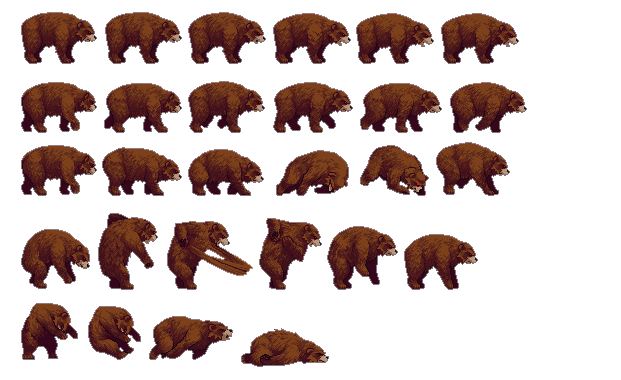
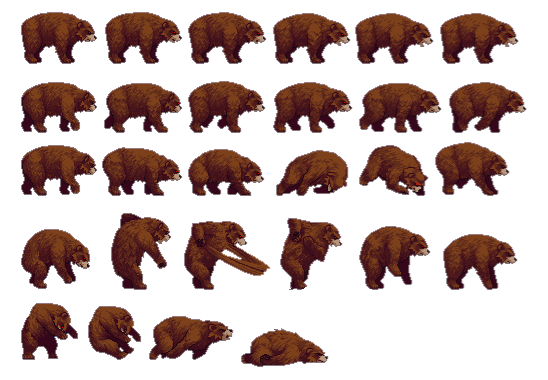
2스테이지 보스 작동. 수정 필요

diff --git a/2DGP_Project/boss2.py b/2DGP_Project/boss2.py
@@ -4,47 +4,150 @@ import random
 import math
 import game_framework
 import game_world
-from tang import Tang
 
-# 곰 행동
+# 상태 상수
 ACTION_IDLE = 0
 ACTION_WALK = 1
-#2은 뭔가 좀 애매
-ACTION_ATTACK = 3  # 3번째 줄이 서서 공격하는 모션
-ACTION_DEAD = 4
+ACTION_ATTACK = 2
+ACTION_DEAD = 3
 
-TIME_PER_ACTION = 1.5
+TIME_PER_ACTION = 1.0
 ACTION_PER_TIME = 1.0 / TIME_PER_ACTION
-FRAMES_PER_ACTION = 6
+
 
 class Boss:
     image = None
-    def __init__(self,x, y):
+
+    def __init__(self, x, y):
         if self.image is None:
             self.image = load_image('Bear.png')
 
         self.x, self.y = x, y
 
-        self.frame_width = 621 // 6
-        self.frame_height = 380 // 5
+        # 화면에 그려질 크기
+        self.draw_width = 150
+        self.draw_height = 150
 
-        self.hp = 100 #총알 1대당 10대미지로 설정 예정
+        self.hp = 100
         self.dir = -1
         self.frame = 0
         self.action = ACTION_IDLE
+
+
+        self.frames = [
+            # 1번째 줄 (서 있는 모습) - IDLE
+            (21, 316, 76, 52), (105, 316, 78, 52), (188, 316, 79, 52), (273, 316, 78, 51),
+            (355, 316, 79, 51), (440, 316, 79, 51),
+
+            # 2번째 줄 (걷기) - WALK
+            (21, 247, 76, 51), (104, 247, 79, 50), (188, 247, 78, 52), (273, 247, 80, 51),
+            (355, 247, 80, 49), (440, 247, 80, 50),
+
+            # 3번째 줄 (포효/공격 준비) - 미사용 예정
+            (20, 179, 77, 51), (103, 179, 79, 50), (187, 179, 79, 50), (273, 179, 73, 47),
+            (353, 179, 76, 50), (436, 179, 78, 50),
+
+            # 4번째 줄 (공격) - ATTACK
+            (20, 103, 71, 55), (103, 103, 68, 67), (181, 103, 95, 60), (288, 103, 63, 64),
+            (361, 103, 70, 57), (443, 103, 73, 50),
+
+            # 5번째 줄 (피격/쓰러짐) - DEAD
+            (20, 25, 60, 54), (91, 25, 56, 52), (160, 25, 85, 42), (266, 25, 90, 32)
+        ]
+
         self.timer = 0
+        self.dead_timer = 0
+
+        # 현재 그려야 할 리스트의 인덱스 번호
+        self.current_draw_index = 0
 
     def update(self):
-        pass
+        # 현재 행동에 따라 사용할 프레임 범위 설정
+        start_index = 0
+        frame_count = 0
+
+        if self.action == ACTION_IDLE:
+            start_index = 0
+            frame_count = 6
+        elif self.action == ACTION_WALK:
+            start_index = 6
+            frame_count = 6
+        elif self.action == ACTION_ATTACK:
+            start_index = 18  # 4번째 줄 사용
+            frame_count = 6
+        elif self.action == ACTION_DEAD:
+            start_index = 24
+            frame_count = 4
+
+        # 프레임 갱신
+        self.frame = (self.frame + frame_count * ACTION_PER_TIME * game_framework.frame_time) % frame_count
+
+        # 죽음 처리 (마지막 프레임 고정)
+        if self.action == ACTION_DEAD:
+            self.dead_timer += game_framework.frame_time
+            if int(self.frame) >= 3:  # 4개니까 인덱스는 0,1,2,3
+                self.frame = 3
+            if self.dead_timer >= 3.0:
+                game_world.remove_object(self)
+
+        # 실제 그려질 리스트 인덱스 계산
+        self.current_draw_index = start_index + int(self.frame)
+
+        #플레이어가 가까이 있으면 공격
+        if self.action != ACTION_DEAD and 'girl' in game_framework.share:
+            girl = game_framework.share['girl']
+            distance = math.sqrt((girl.x - self.x) ** 2 + (girl.y - self.y) ** 2)
+
+            if girl.x > self.x:
+                self.dir = 1
+            else:
+                self.dir = -1
+
+            if distance < 50:
+                self.action = ACTION_ATTACK
+            elif distance < 100:
+                self.action = ACTION_WALK
+                self.x += self.dir * 100 * game_framework.frame_time
+            else:
+                self.action = ACTION_IDLE
+
+        self.x = clamp(50, self.x, 2400 - 50)
 
     def draw(self):
-        pass
+        cx = self.x - game_framework.camera_x
+        cy = self.y - game_framework.camera_y
 
-    def handle_event(self,e):
-        pass
+        safe_index = clamp(0, self.current_draw_index, len(self.frames) - 1)
+
+        x, y, w, h = self.frames[safe_index]
+
+        if self.dir == 1:
+            self.image.clip_draw(x, y, w, h, cx, cy, self.draw_width, self.draw_height)
+        else:
+            self.image.clip_composite_draw(x, y, w, h, 0, 'h', cx, cy, self.draw_width, self.draw_height)
+
+        # 디버그 박스
+        l, b, r, t = self.get_bb()
+        l -= game_framework.camera_x
+        b -= game_framework.camera_y
+        r -= game_framework.camera_x
+        t -= game_framework.camera_y
+        draw_rectangle(l, b, r, t)
 
     def handle_collision(self, group, other):
-        pass
+        if group == 'tang:boss':
+            if self.action != ACTION_DEAD:
+                print(f"Boss Hit, HP: {self.hp}")
+                self.hp -= 10
+                if self.hp <= 0:
+                    self.hp = 0
+                    self.action = ACTION_DEAD
+                    self.frame = 0  # 죽는 모션 처음부터 시작
 
     def get_bb(self):
+        half_w = self.draw_width // 3
+        half_h = self.draw_height // 2
+        return self.x - half_w, self.y - half_h, self.x + half_w, self.y + half_h
+
+    def handle_event(self, e):
         pass

diff --git a/2DGP_Project/stage2_boss.py b/2DGP_Project/stage2_boss.py
@@ -1,0 +1,80 @@
+import random
+from pico2d import *
+import game_framework
+import game_world
+import play_mode
+from boss2 import Boss  # boss2.py에서 Boss 클래스 가져오기
+
+# 모듈 단위 변수 (전역 변수)
+image = None
+
+
+# ▼▼▼ self 제거 (모듈 함수이므로) ▼▼▼
+def init():
+    global image  # 전역 변수 image를 사용하겠다고 선언
+
+    print("Stage 2 Boss 진입")
+
+    # 1. 배경 이미지 로드
+    # 실제 존재하는 이미지 파일명으로 바꿔주세요! (예: 'stage_1.png')
+    image = load_image('임시.jpg')
+
+    game_framework.camera_x = 0
+    game_framework.camera_y = 0
+
+    # 2. 보스 생성
+    boss = Boss(800, 100)
+    game_world.add_object(boss, 1)
+
+    # 3. 플레이어 및 충돌 처리
+    if 'girl' in game_framework.share:
+        girl = game_framework.share['girl']
+        game_world.add_object(girl, 1)  # 플레이어도 화면에 추가
+
+        girl.x = 100  # 왼쪽에서 시작
+        girl.y = 100  # 바닥 높이 (이 값을 조절하세요!)
+
+        # 충돌 쌍 등록
+        game_world.add_collision_pair('tang:boss', None, boss)
+        game_world.add_collision_pair('missile:girl', None, girl)
+
+
+def handle_events():
+    event_list = get_events()
+    for event in event_list:
+        if event.type == SDL_QUIT:
+            game_framework.quit()
+        elif event.type == SDL_KEYDOWN and event.key == SDLK_ESCAPE:
+            game_framework.quit()
+        else:
+            if 'girl' in game_framework.share:
+                game_framework.share['girl'].handle_event(event)
+
+
+def update():
+    game_world.update()
+    game_world.handle_collisions()
+
+
+def draw():
+    clear_canvas()
+
+    # ▼▼▼ 배경 먼저 그리기 ▼▼▼
+    if image:
+        # 화면 크기(1200x700)에 맞춰 중앙이나 적절한 위치에 그림
+        image.draw(600, 350)
+
+    game_world.render()
+    update_canvas()
+
+
+def finish():
+    game_world.clear()
+    global image
+    del image  # 메모리 해제
+
+
+def pause(): pass
+
+
+def resume(): pass

diff --git a/2DGP_Project/stage2_mode.py b/2DGP_Project/stage2_mode.py
@@ -10,6 +10,9 @@ from inventory import Inventory
 from door import Door
 from HP import Bar
 from boss2 import Boss
+import stage3
+import stage3            # (기존 거)
+import stage2_boss  # <--- 이거 추가 (파일명이 stage2_boss_mode.py 일 경우)
 
 girl = None
 door_bridge = None
@@ -96,14 +99,17 @@ def init():
     game_world.add_object(board3, 1)
     game_world.add_collision_pair('girl:item', None, board3)
 
-    boss = Boss(300,280)
-    game_world.add_object(boss, 1)
-    game_world.add_collision_pair('tang:boss', None, boss)
+    #boss = Boss(300,280)
+    #game_world.add_object(boss, 1)
+    #game_world.add_collision_pair('tang:boss', None, boss)
 
 
 def update():
     game_world.update()
     game_world.handle_collisions()
+
+    if girl.x > 2350:
+        game_framework.change_mode(stage2_boss)
 
 
 def draw():
